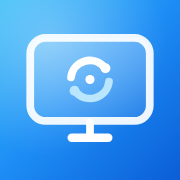
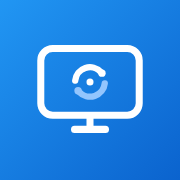
feat(ui): enhance splash screen with theme detection and animation

diff --git a/index.html b/index.html
@@ -25,8 +25,146 @@
       content="Access RustDesk remote desktops from your browser, with controls for phones and computers."
     />
     <meta property="og:type" content="website" />
+    <script>
+      (function () {
+        try {
+          var saved = localStorage.getItem('rd_web_theme');
+          var dark = saved === 'dark' || (saved !== 'light' && matchMedia('(prefers-color-scheme: dark)').matches);
+          document.documentElement.dataset.theme = dark ? 'dark' : 'light';
+        } catch (e) {}
+      })();
+    </script>
+    <style>
+      #app-splash {
+        position: fixed;
+        inset: 0;
+        z-index: 9999;
+        display: flex;
+        flex-direction: column;
+        align-items: center;
+        justify-content: center;
+        gap: 20px;
+        padding: 24px;
+        pointer-events: none;
+        font-family: system-ui, -apple-system, BlinkMacSystemFont, "Segoe UI", "PingFang SC", sans-serif;
+        background-color: #f8fafc;
+        background-image:
+          radial-gradient(circle at 50% 34%, rgba(29, 142, 245, 0.12), transparent 56%),
+          radial-gradient(rgba(15, 23, 42, 0.055) 1px, transparent 1px);
+        background-size: 100% 100%, 24px 24px;
+        color: #0f172a;
+        opacity: 1;
+        transition: opacity 220ms ease, transform 220ms ease;
+      }
+      html[data-theme="dark"] #app-splash {
+        background-color: #0b1120;
+        background-image:
+          radial-gradient(circle at 50% 34%, rgba(33, 150, 243, 0.2), transparent 56%),
+          radial-gradient(rgba(148, 163, 184, 0.08) 1px, transparent 1px);
+        color: #f1f5f9;
+      }
+      #app-splash.is-hidden {
+        opacity: 0;
+        transform: scale(1.015);
+      }
+      .rd-splash-icon {
+        width: 84px;
+        height: 84px;
+        border-radius: 22px;
+        overflow: hidden;
+        box-shadow: 0 20px 44px -12px rgba(11, 99, 206, 0.48), 0 2px 8px rgba(15, 23, 42, 0.16);
+      }
+      .rd-splash-icon svg {
+        width: 100%;
+        height: 100%;
+        display: block;
+      }
+      .rd-splash-title {
+        margin: 0;
+        font-size: 20px;
+        font-weight: 600;
+        letter-spacing: -0.02em;
+      }
+      .rd-splash-meta {
+        display: flex;
+        align-items: center;
+        gap: 8px;
+        margin-top: -10px;
+        font-size: 12px;
+        color: #64748b;
+      }
+      html[data-theme="dark"] .rd-splash-meta {
+        color: #94a3b8;
+      }
+      .rd-splash-chip {
+        padding: 2px 8px;
+        border-radius: 999px;
+        background: rgba(29, 142, 245, 0.1);
+        color: #0b63ce;
+        font-weight: 500;
+      }
+      html[data-theme="dark"] .rd-splash-chip {
+        background: rgba(56, 189, 248, 0.12);
+        color: #7dd3fc;
+      }
+      .rd-splash-bar {
+        position: relative;
+        width: 152px;
+        height: 3px;
+        border-radius: 999px;
+        overflow: hidden;
+        background: rgba(100, 116, 139, 0.22);
+      }
+      .rd-splash-bar::after {
+        content: "";
+        position: absolute;
+        inset: 0 auto 0 0;
+        width: 46%;
+        border-radius: 999px;
+        background: linear-gradient(90deg, #2196f3, #38bdf8);
+        animation: rd-splash-slide 1.15s ease-in-out infinite;
+      }
+      @keyframes rd-splash-slide {
+        0% { transform: translateX(-110%); }
+        100% { transform: translateX(240%); }
+      }
+      @media (prefers-reduced-motion: reduce) {
+        #app-splash { transition: none; }
+        .rd-splash-bar::after { animation: none; width: 100%; }
+      }
+    </style>
   </head>
   <body>
+    <div id="app-splash" aria-hidden="true">
+      <div class="rd-splash-icon">
+        <svg xmlns="http://www.w3.org/2000/svg" viewBox="0 0 512 512">
+          <defs>
+            <linearGradient id="sp-bg" x1="0%" y1="0%" x2="100%" y2="100%">
+              <stop offset="0%" stop-color="#2196F3"/>
+              <stop offset="100%" stop-color="#0B63CE"/>
+            </linearGradient>
+          </defs>
+          <rect width="512" height="512" fill="url(#sp-bg)"/>
+          <rect x="116" y="138" width="280" height="190" rx="34" fill="none" stroke="#FFFFFF" stroke-width="20"/>
+          <g transform="translate(256 233)">
+            <path d="M -42 -4 A 42 42 0 0 1 31 -28" fill="none" stroke="#FFFFFF" stroke-width="18" stroke-linecap="round"/>
+            <path d="M 42 4 A 42 42 0 0 1 -31 28" fill="none" stroke="#93C5FD" stroke-width="18" stroke-linecap="round"/>
+            <circle cx="34" cy="-25" r="10.5" fill="#FFFFFF"/>
+            <circle cx="-34" cy="25" r="10.5" fill="#93C5FD"/>
+            <circle cx="0" cy="0" r="10" fill="#FFFFFF"/>
+          </g>
+          <path d="M 212 368 H 300" stroke="#FFFFFF" stroke-width="20" stroke-linecap="round"/>
+          <path d="M 256 330 V 366" stroke="#FFFFFF" stroke-width="20" stroke-linecap="round"/>
+        </svg>
+      </div>
+      <h1 class="rd-splash-title">RustDesk Web</h1>
+      <div class="rd-splash-meta">
+        <span class="rd-splash-chip">WebCodecs</span>
+        <span class="rd-splash-chip">WebRTC</span>
+        <span class="rd-splash-chip">E2E</span>
+      </div>
+      <div class="rd-splash-bar"></div>
+    </div>
     <div id="root"></div>
     <script type="module" src="/src/main.tsx"></script>
   </body>

diff --git a/src/main.tsx b/src/main.tsx
@@ -5,3 +5,11 @@ import {initPwa} from './lib/pwa';
 
 initPwa();
 createRoot(document.getElementById('root')!).render(<App />);
+
+const splash = document.getElementById('app-splash');
+if (splash) {
+  window.requestAnimationFrame(() => {
+    splash.classList.add('is-hidden');
+    window.setTimeout(() => splash.remove(), 240);
+  });
+}

diff --git a/public/sw.js b/public/sw.js
@@ -1,4 +1,4 @@
-const CACHE_NAME = 'rd-web-shell-v2';
+const CACHE_NAME = 'rd-web-shell-v3';
 const SHELL_ASSETS = ['/', '/manifest.webmanifest', '/icon.svg', '/favicon.svg'];
 
 self.addEventListener('install', (event) => {
